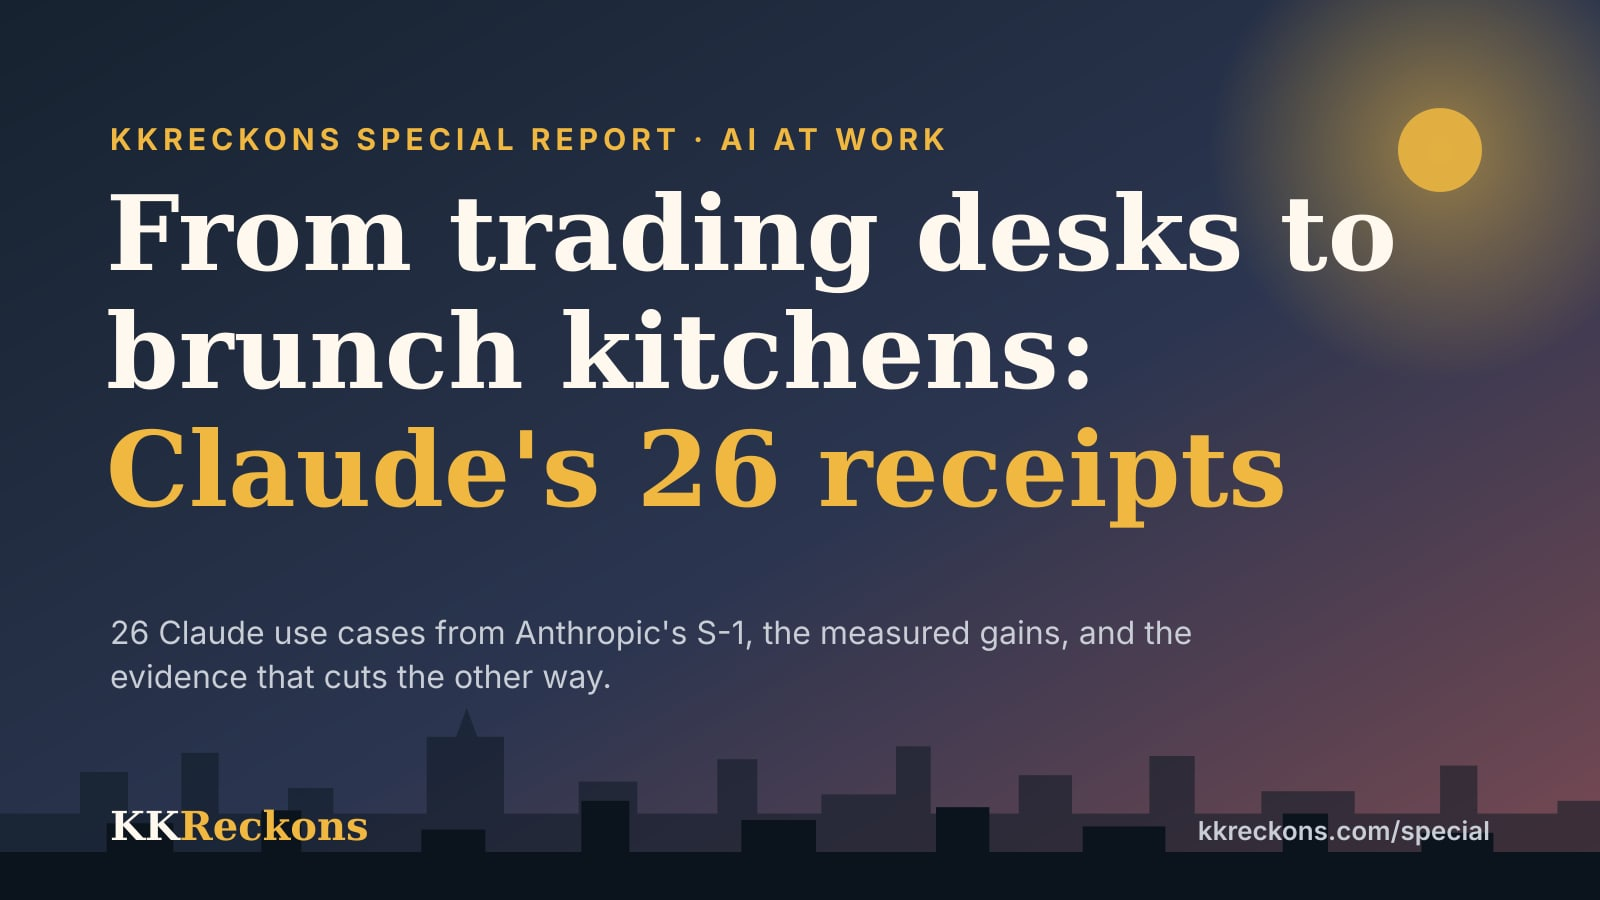
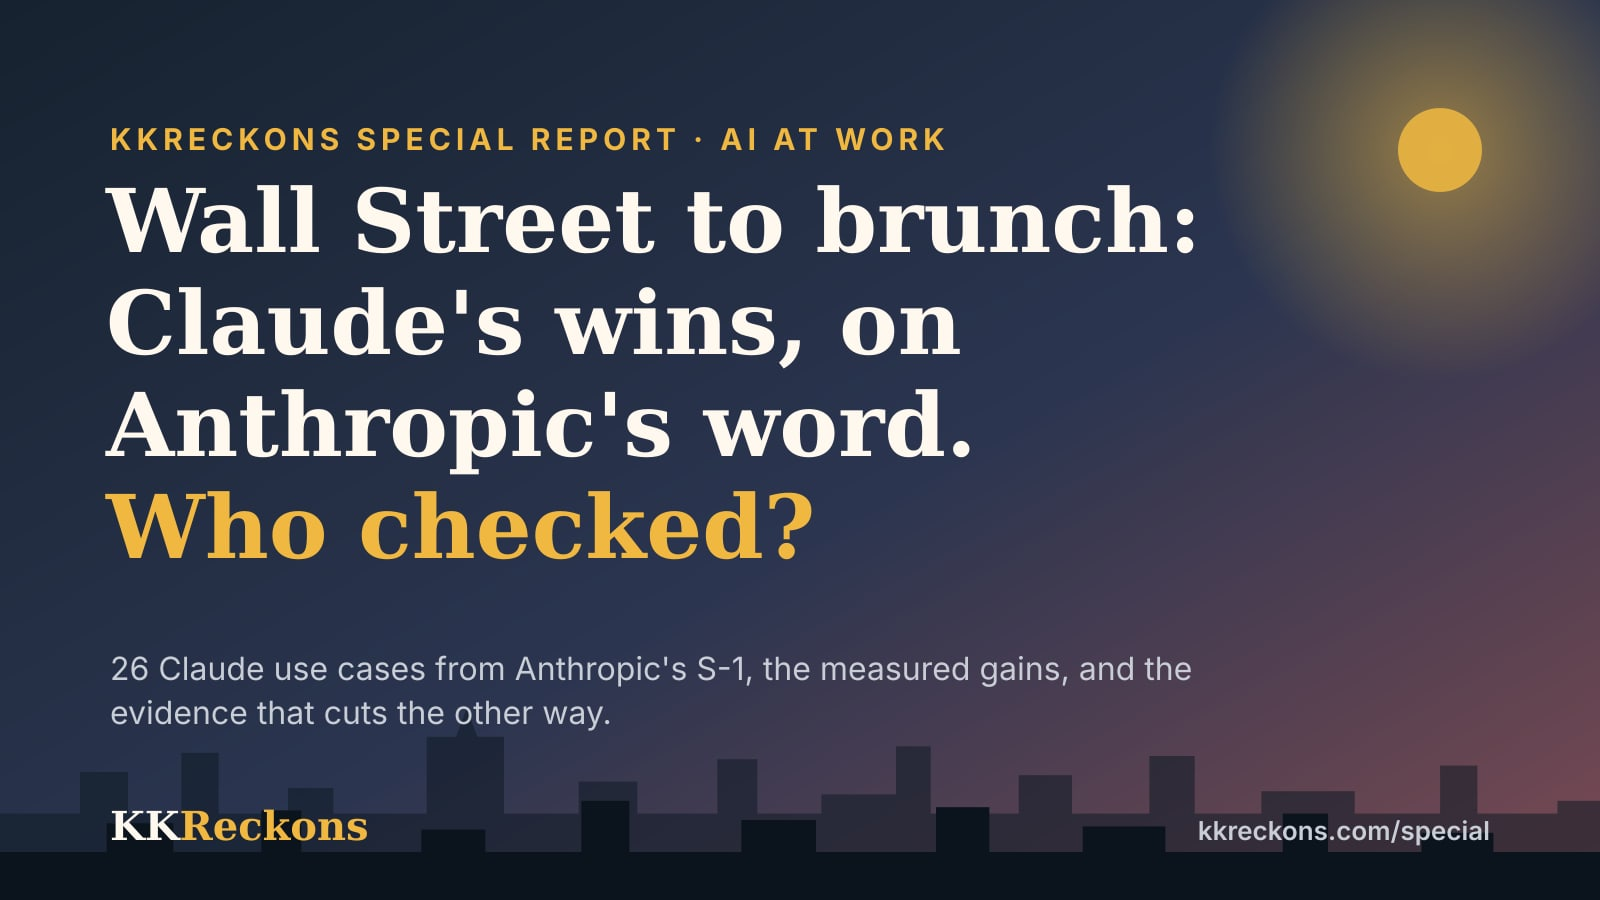
Claude at work: "Wall Street to brunch: Claude's wins, on Anthropic's word. Who checked?"
The headline now says whose numbers these are and asks the report's question, instead of the "receipts"
metaphor and an exact count. Page title, h1, registry title and cover alt updated, cover regenerated.

The cover script now wraps each sentence of a two-sentence title (a long first sentence was set on one line,
in tiny type), and sizes four-line titles down so the first line clears the kicker. Two- and three-line covers
are unchanged.

Claude-Session: https://claude.ai/code/session_01XqBcyoSk2mzvzbC7hESze5

Changed region(s): [[0.0625, 0.1867, 0.875, 0.6222], [0.0625, 0.6844, 0.75, 0.8089]]

diff --git a/special/claude-at-work.html b/special/claude-at-work.html
@@ -3,7 +3,7 @@
 <head>
 <meta charset="utf-8">
 <meta name="viewport" content="width=device-width,initial-scale=1,viewport-fit=cover">
-<title>From trading desks to brunch kitchens: Claude's 26 receipts</title>
+<title>Wall Street to brunch: Claude's wins, on Anthropic's word. Who checked?</title>
 <meta name="description" content="26 Claude use cases from Anthropic's S-1, the measured gains, and the evidence that cuts the other way.">
 <!-- KKReckons special report by KK Reddy, built in the KKReckons Claude Project and served at https://www.kkreckons.com/special/claude-at-work
      inside the site's header and footer (app/special/[slug]/page.tsx). Lora and Poppins are the site's self-hosted fonts (app/special/special.css). -->
@@ -152,7 +152,7 @@ footer{padding-block:28px 40px;font-family:var(--sans);font-size:12.5px;color:va
 <header class="hero">
   <div class="wrap">
     <div class="lab"><a href="https://www.kkreckons.com/special" style="color:inherit;text-decoration:none">KKReckons special reports</a> · Thursday, 29 October 2026</div>
-    <h1>From trading desks to brunch kitchens: <em>Claude's 26 receipts</em></h1>
+    <h1>Wall Street to brunch: Claude's wins, on Anthropic's word. <em>Who checked?</em></h1>
     <p class="dek">Anthropic's IPO filing carries 20 customer case studies. Here is what Claude actually did inside banks, drug makers, law firms and kitchens, what it saved, and what the numbers can't tell you.</p>
     <div class="byline">By KK Reddy · Sources: Anthropic's Form S-1 (26 Oct 2026), Anthropic research, independent studies</div>
   </div>
